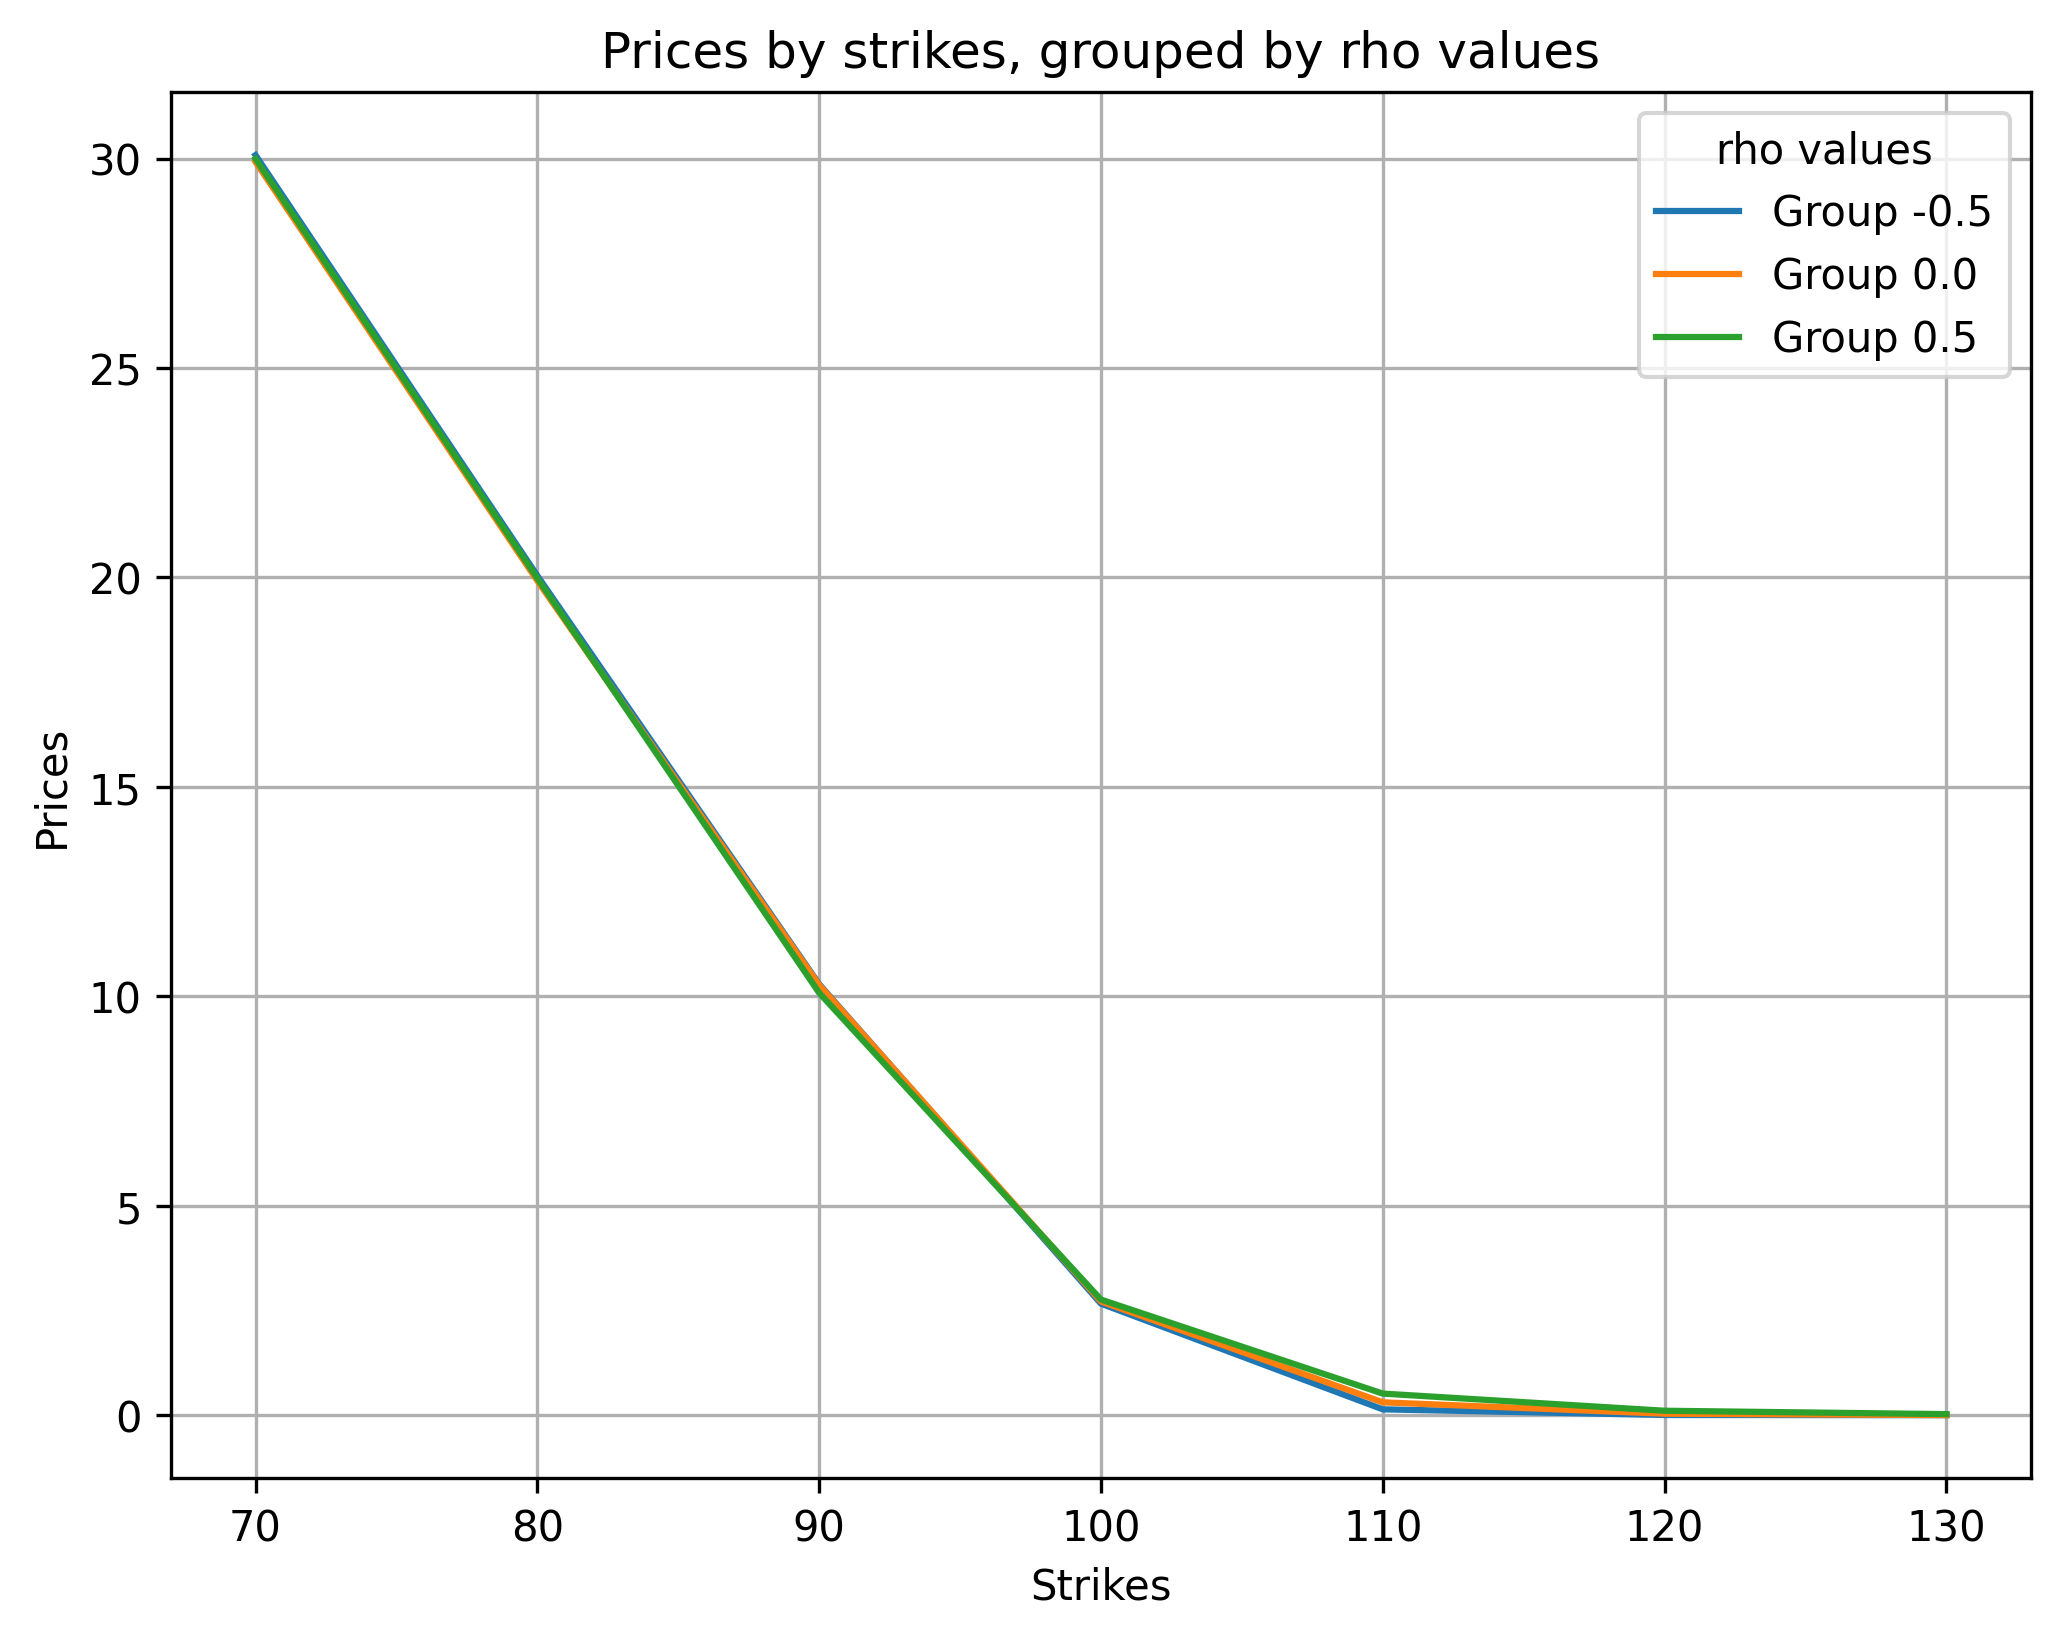
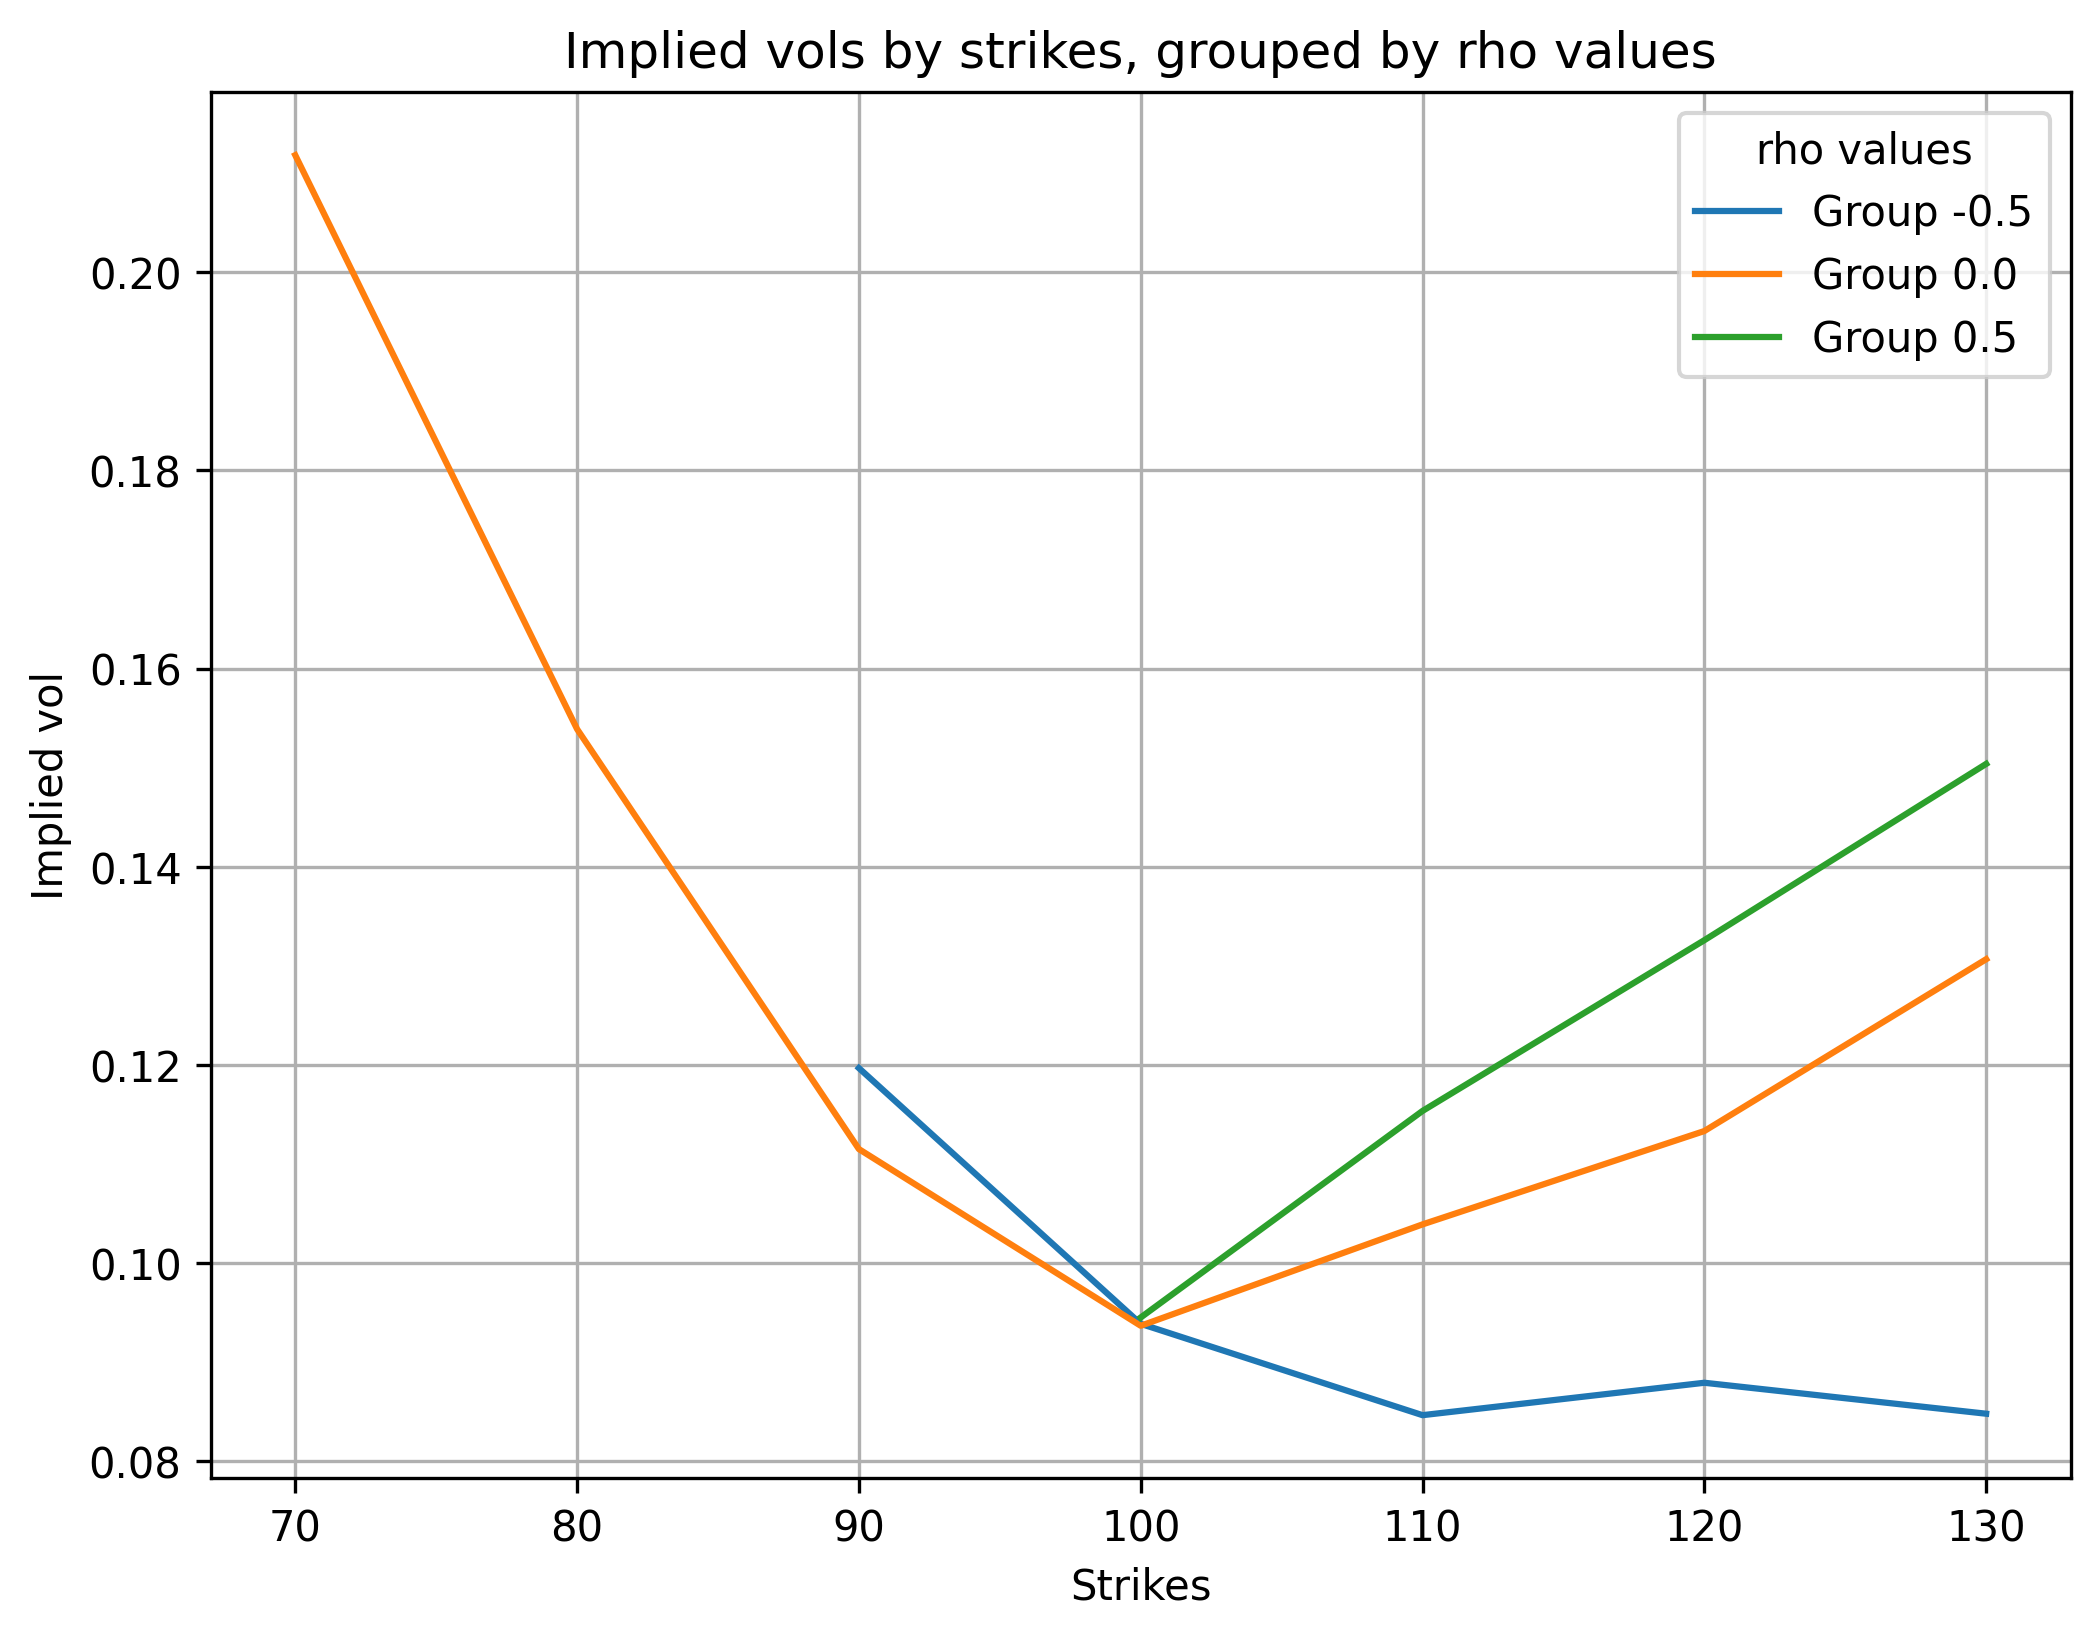
derivatives fix

diff --git a/derivatives_ha2/main_script.py b/derivatives_ha2/main_script.py
@@ -43,10 +43,9 @@ sigma = sigmas_list[0]
 res_list = list()
 for rho in rhos_list:
     print(f"starting sims for rho {rho}")
-    res_list.extend([(x, get_MC_estimate_spec(sigma = sigma, rho = rho, strike = x), rho)
-                     for x in strikes_list
-                    ]
-             )
+    for strike in strikes_list:
+        price = get_MC_estimate_spec(sigma = sigma, rho = rho, strike = strike)
+        res_list.append((strike, find_vol(price, S_0, strike, T, r), rho))
 
 df = pd.DataFrame(res_list)
 
@@ -56,8 +55,8 @@ for group in df[2].unique():
     plt.plot(subset[0], subset[1], label=f'Group {group}')
 
 plt.xlabel('Strikes')
-plt.ylabel('Prices')
-plt.title('Prices by strikes, grouped by rho values')
+plt.ylabel('Implied vol')
+plt.title('Implied vols by strikes, grouped by rho values')
 plt.legend(title='rho values')
 plt.grid(True)
 plt.savefig('derivatives_ha2//1st_plot.png', dpi=300, bbox_inches='tight')

diff --git a/derivatives_ha2/MC_sim.py b/derivatives_ha2/MC_sim.py
@@ -17,10 +17,10 @@ def get_MC_estimate(sigma,
     ):
 
     def get_price_fin():
-        return get_stock_price_path(T, per_num, rho,
-                                    S_0, u_0, kappa,
-                                    theta, lambda_bar,
-                                    sigma, r
+        return get_stock_price_path(T=T, per_num=per_num, rho=rho,
+                                    S_0=S_0, u_0=u_0, kappa=kappa,
+                                    theta=theta, lambda_bar=lambda_bar,
+                                    sigma=sigma, r=r
                )[per_num - 1]
 
     def get_payoff():
